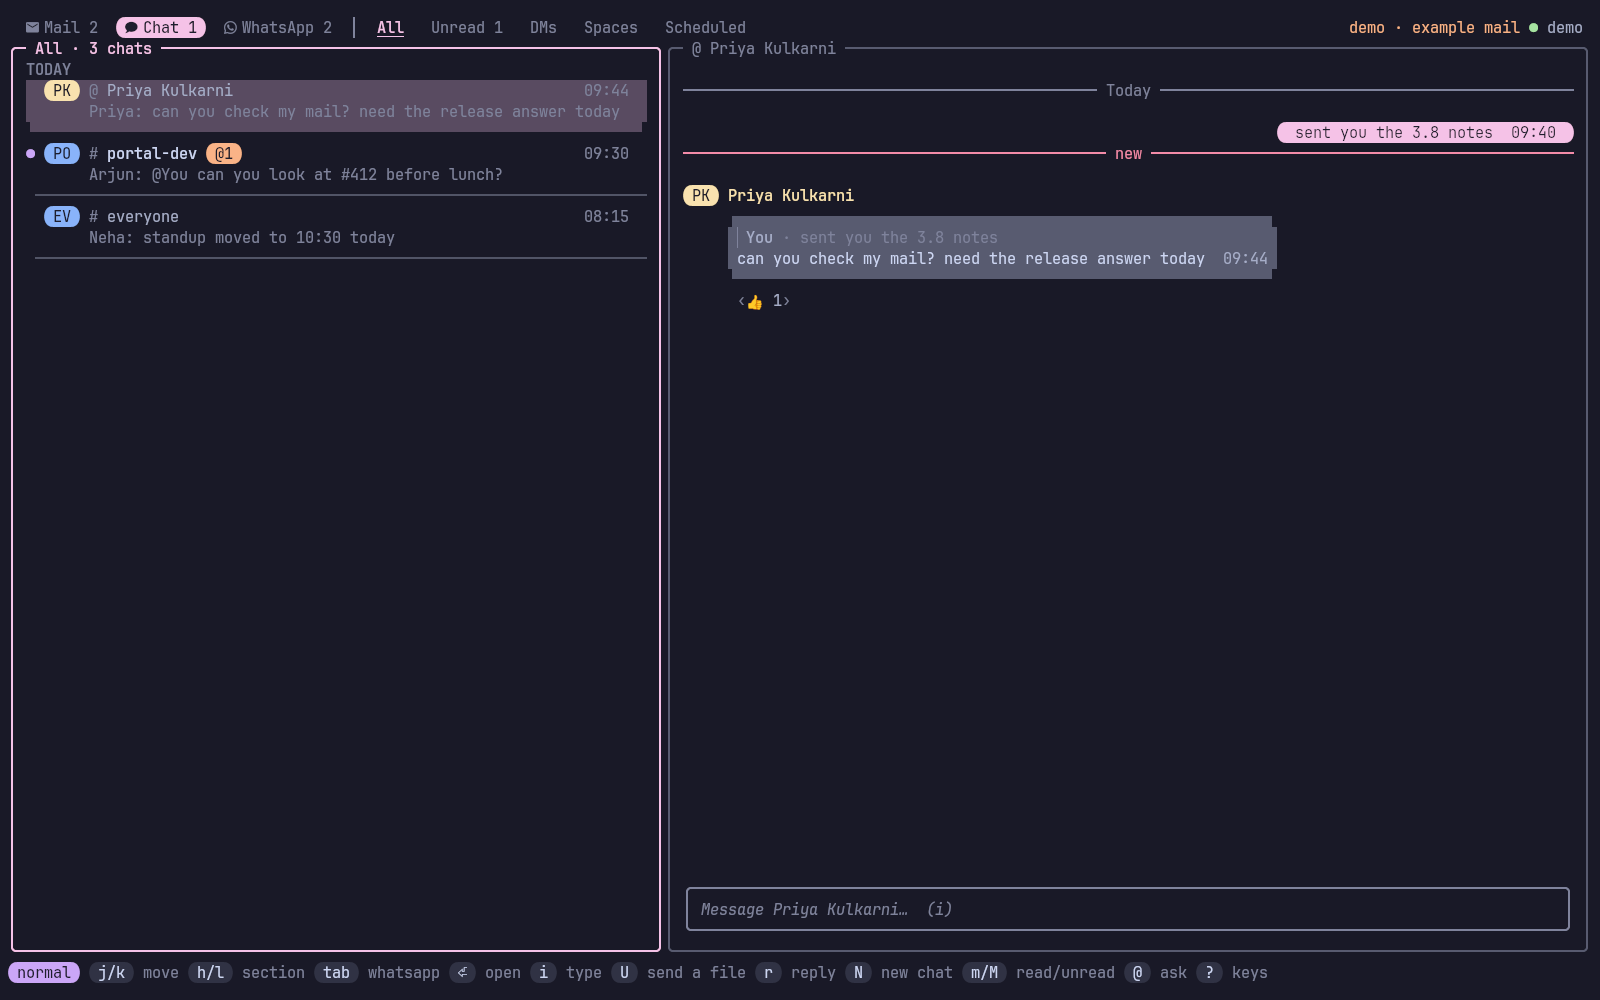
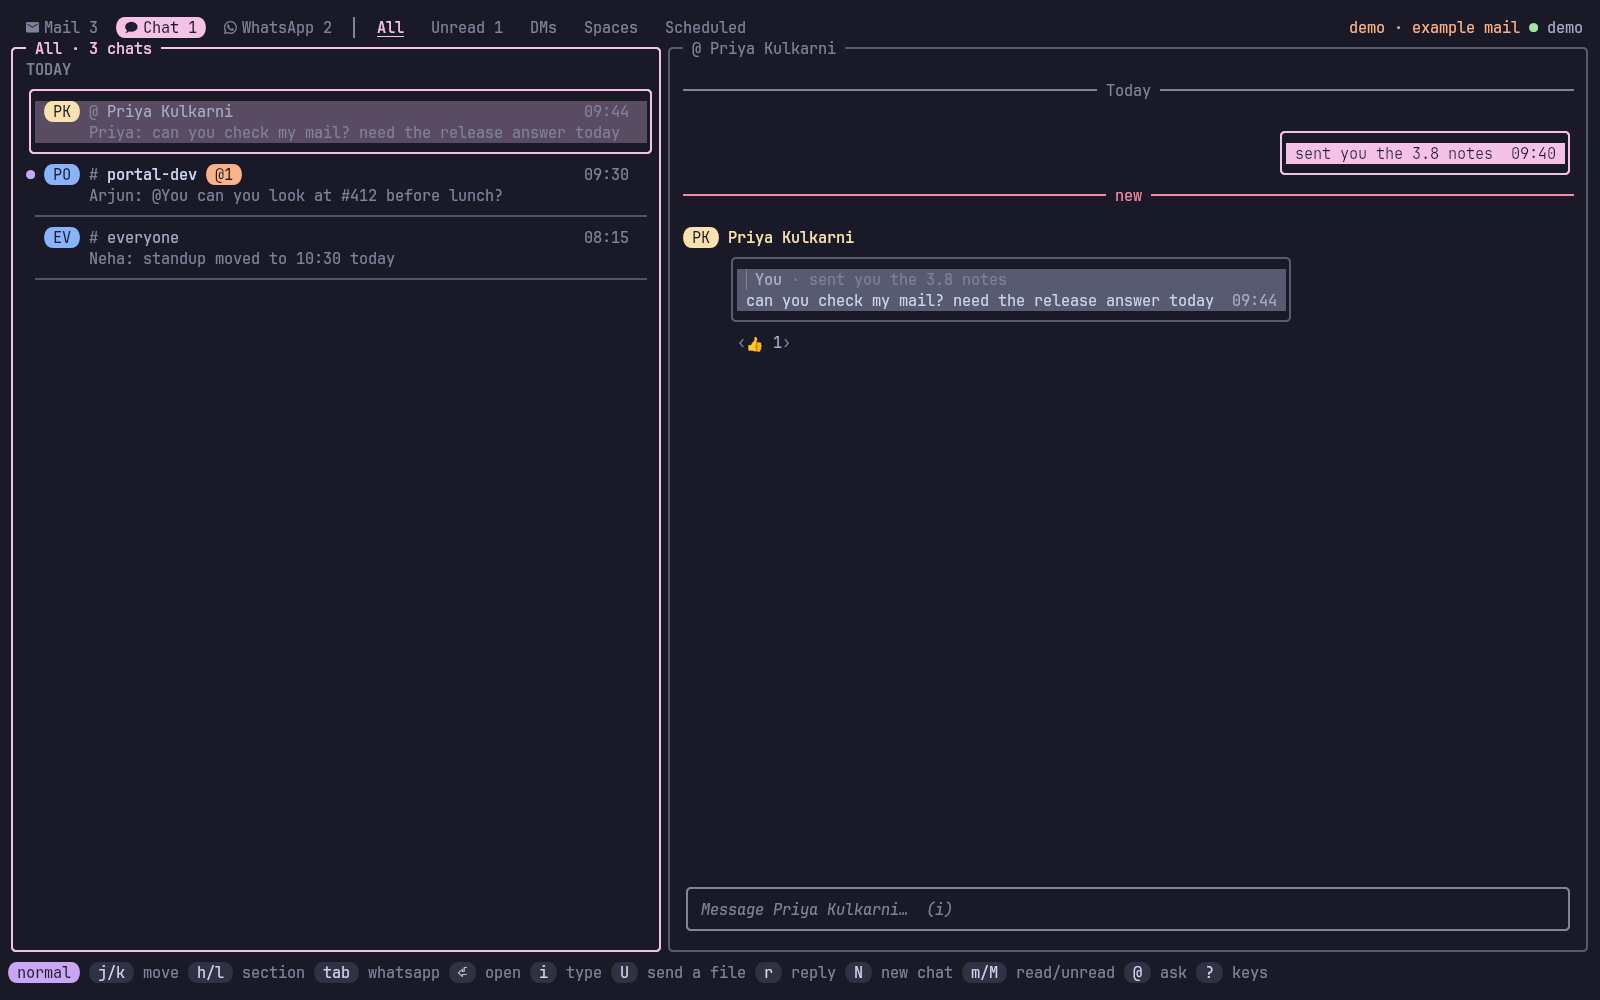
v0.4.2: rounded borders on bubbles and the picked row

Changed region(s): [[0.0, 0.062, 0.8125, 0.341], [0.7812, 0.124, 1.0, 0.186]]

diff --git a/docs/changelog.html b/docs/changelog.html
@@ -19,8 +19,8 @@
 <a class="brand" href="index.html"><img src="assets/logo.svg" alt=""><span>sandesh <small>संदेश</small></span></a>
 <nav><a href="index.html" class="">Overview</a><a href="changelog.html" class="on">Changelog</a><a href="adr/index.html" class=" hide">Decisions</a><a class="gh" href="https://github.com/Theyashsawarkar/sandesh">GitHub ↗</a></nav></div></header>
 
-<div class="wrap"><aside class="toc"><b>On this page</b><a class="l2" href="#v041">v0.4.1</a><a class="l2" href="#v040">v0.4.0</a><a class="l2" href="#v030">v0.3.0</a><a class="l2" href="#v020">v0.2.0</a><a class="l2" href="#v010">v0.1.0</a></aside><article>
-<h2>Changelog</h2><p>Every change to sandesh, newest first. Releases are git tags (<a href="https://github.com/Theyashsawarkar/sandesh/tags">all tags</a>, <a href="https://github.com/Theyashsawarkar/sandesh/releases">GitHub releases</a>); the source of this page is <a href="https://github.com/Theyashsawarkar/sandesh/blob/main/CHANGELOG.md">CHANGELOG.md</a>.</p><section class="release"><h2 id="v041">v0.4.1<span class="date">2026-11-02</span><a class="tag" href="https://github.com/Theyashsawarkar/sandesh/releases/tag/v0.4.1">release ↗</a></h2><ul><li><strong>Fixed: sending files on WhatsApp</strong>: <code>U</code> said "files isn't on WhatsApp yet" (a leftover guard); it sends now, and <code>v</code> / <code>V</code> open and save WhatsApp files. The key bar shows <code>U send a file</code>.</li><li><strong>Rounded</strong>: one-line messages are pills, longer ones rounded blocks; the picked list row is rounded too, and keeps its colours (name capsules showed as dark blobs on it).</li><li><strong>Switching places</strong>: <code>Shift+Tab</code> goes back (Mail ← Chat ← WhatsApp), <code>Alt+m</code> / <code>Alt+c</code> / <code>Alt+w</code> go straight to one.</li><li><strong>Picking several, marking all read</strong>: <code>x</code> picks chats too, <code>Ctrl+x</code> picks the whole list (again clears), <code>m</code> / <code>M</code> act on what's picked, and <code>Alt+r</code> marks everything in the list read.</li></ul></section><section class="release"><h2 id="v040">v0.4.0<span class="date">2026-11-02</span><a class="tag" href="https://github.com/Theyashsawarkar/sandesh/releases/tag/v0.4.0">release ↗</a></h2><ul><li><strong>Filled bubbles</strong>: chat and WhatsApp messages are filled blocks, yours in the accent colour, with the time and ticks inside; one name per run.</li><li><strong>One panel for the lists</strong>: mail, chat and WhatsApp rows divided by hairlines, the picked one filled in the tab's colour (<code>list_style</code>, replacing <code>chat_list</code>; <code>chat_list = &quot;cards&quot;</code> still works).</li><li><strong>Mail threads fold</strong>: read messages to one line, a long run to one line in all.</li><li><strong>One frame for the message box</strong>: the reply and the files go inside it.</li><li><strong>A clearer approval</strong>: "Claude Code wants to send a mail to …", the reason as a badge, the agent's own <code>why</code> (new on <code>mail_send</code>, <code>chat_send</code> and <code>whatsapp_send</code>) and <code>y send in 10s</code>.</li></ul></section><section class="release"><h2 id="v030">v0.3.0<span class="date">2026-11-02</span><a class="tag" href="https://github.com/Theyashsawarkar/sandesh/releases/tag/v0.3.0">release ↗</a></h2><ul><li><strong>Screenshots</strong> in the README and on the website (from <code>sandesh demo</code>).</li><li><strong>Ticks</strong>: ✓ sent, ✓✓ delivered and blue ✓✓ read beside your WhatsApp messages, from the phone's receipts and its history.</li><li><strong>Paste a screenshot</strong>: <code>Ctrl+v</code> while typing attaches a copied image; files about to go show as small previews above the box.</li><li><strong>Pictures full size</strong>: <code>Space</code> (or <code>Enter</code>) on a picked photo or GIF fills the screen; <code>h</code>/<code>l</code> go through the chat's pictures.</li><li><strong>Compact chat list</strong>: two rows per chat instead of a box, so about twice as many fit; <code>chat_list = &quot;cards&quot;</code> brings the boxes back.</li><li><strong>The undo window where you look</strong>: a message counting down to send, or waiting for approval, shows under the conversation; <code>z</code> cancels the open chat's own first.</li><li><strong>Clearer</strong>: the unread count sits on Unread, not All; the list title says "chats"; a one-to-one chat shows the number, not "You, Amma · 2 people"; the hint under the message box, which repeated the key bar, is gone.</li></ul>
+<div class="wrap"><aside class="toc"><b>On this page</b><a class="l2" href="#v042">v0.4.2</a><a class="l2" href="#v041">v0.4.1</a><a class="l2" href="#v040">v0.4.0</a><a class="l2" href="#v030">v0.3.0</a><a class="l2" href="#v020">v0.2.0</a><a class="l2" href="#v010">v0.1.0</a></aside><article>
+<h2>Changelog</h2><p>Every change to sandesh, newest first. Releases are git tags (<a href="https://github.com/Theyashsawarkar/sandesh/tags">all tags</a>, <a href="https://github.com/Theyashsawarkar/sandesh/releases">GitHub releases</a>); the source of this page is <a href="https://github.com/Theyashsawarkar/sandesh/blob/main/CHANGELOG.md">CHANGELOG.md</a>.</p><section class="release"><h2 id="v042">v0.4.2<span class="date">2026-11-02</span><a class="tag" href="https://github.com/Theyashsawarkar/sandesh/releases/tag/v0.4.2">release ↗</a></h2><ul><li><strong>Really rounded</strong>: bubbles and the picked list row get rounded borders (╭ ╮ ╰ ╯) in their colour; the half-block corners of v0.4.1 were too small to read as round.</li></ul></section><section class="release"><h2 id="v041">v0.4.1<span class="date">2026-11-02</span><a class="tag" href="https://github.com/Theyashsawarkar/sandesh/releases/tag/v0.4.1">release ↗</a></h2><ul><li><strong>Fixed: sending files on WhatsApp</strong>: <code>U</code> said "files isn't on WhatsApp yet" (a leftover guard); it sends now, and <code>v</code> / <code>V</code> open and save WhatsApp files. The key bar shows <code>U send a file</code>.</li><li><strong>Rounded</strong>: one-line messages are pills, longer ones rounded blocks; the picked list row is rounded too, and keeps its colours (name capsules showed as dark blobs on it).</li><li><strong>Switching places</strong>: <code>Shift+Tab</code> goes back (Mail ← Chat ← WhatsApp), <code>Alt+m</code> / <code>Alt+c</code> / <code>Alt+w</code> go straight to one.</li><li><strong>Picking several, marking all read</strong>: <code>x</code> picks chats too, <code>Ctrl+x</code> picks the whole list (again clears), <code>m</code> / <code>M</code> act on what's picked, and <code>Alt+r</code> marks everything in the list read.</li></ul></section><section class="release"><h2 id="v040">v0.4.0<span class="date">2026-11-02</span><a class="tag" href="https://github.com/Theyashsawarkar/sandesh/releases/tag/v0.4.0">release ↗</a></h2><ul><li><strong>Filled bubbles</strong>: chat and WhatsApp messages are filled blocks, yours in the accent colour, with the time and ticks inside; one name per run.</li><li><strong>One panel for the lists</strong>: mail, chat and WhatsApp rows divided by hairlines, the picked one filled in the tab's colour (<code>list_style</code>, replacing <code>chat_list</code>; <code>chat_list = &quot;cards&quot;</code> still works).</li><li><strong>Mail threads fold</strong>: read messages to one line, a long run to one line in all.</li><li><strong>One frame for the message box</strong>: the reply and the files go inside it.</li><li><strong>A clearer approval</strong>: "Claude Code wants to send a mail to …", the reason as a badge, the agent's own <code>why</code> (new on <code>mail_send</code>, <code>chat_send</code> and <code>whatsapp_send</code>) and <code>y send in 10s</code>.</li></ul></section><section class="release"><h2 id="v030">v0.3.0<span class="date">2026-11-02</span><a class="tag" href="https://github.com/Theyashsawarkar/sandesh/releases/tag/v0.3.0">release ↗</a></h2><ul><li><strong>Screenshots</strong> in the README and on the website (from <code>sandesh demo</code>).</li><li><strong>Ticks</strong>: ✓ sent, ✓✓ delivered and blue ✓✓ read beside your WhatsApp messages, from the phone's receipts and its history.</li><li><strong>Paste a screenshot</strong>: <code>Ctrl+v</code> while typing attaches a copied image; files about to go show as small previews above the box.</li><li><strong>Pictures full size</strong>: <code>Space</code> (or <code>Enter</code>) on a picked photo or GIF fills the screen; <code>h</code>/<code>l</code> go through the chat's pictures.</li><li><strong>Compact chat list</strong>: two rows per chat instead of a box, so about twice as many fit; <code>chat_list = &quot;cards&quot;</code> brings the boxes back.</li><li><strong>The undo window where you look</strong>: a message counting down to send, or waiting for approval, shows under the conversation; <code>z</code> cancels the open chat's own first.</li><li><strong>Clearer</strong>: the unread count sits on Unread, not All; the list title says "chats"; a one-to-one chat shows the number, not "You, Amma · 2 people"; the hint under the message box, which repeated the key bar, is gone.</li></ul>
 <ul><li><strong>Photos, GIFs and files on WhatsApp</strong>: they show in the conversation (on kitty as real pictures, in tmux popups too, and GIFs play; elsewhere as coloured blocks; the <code>images</code> option chooses), and <code>Ctrl+o</code> while typing or <code>U</code> sends them, with the text as the first file's caption.</li><li><strong>Link WhatsApp from its tab</strong>: <code>L</code> shows the QR code, <code>P</code> a phone code, and a bar follows the sync, with no separate terminal.</li><li><strong><code>send_policy = &quot;trust&quot;</code> and <code>ask_first</code></strong>: agents send without asking unless you told them to ask, after an undo window with a notification that can cancel it (ADR 6). The approval screen is redesigned.</li><li><strong>The chat box grows</strong>: long messages wrap and the box gets taller, and Enter sends and keeps you typing. The active tab is a filled pill in its own colour.</li><li><strong>Fixed</strong>: WhatsApp names and mentions showing as numbers; <code>@</code> and the AI keys not finding <code>claude</code> or <code>sandesh</code> from a tmux popup.</li></ul>
 <ul><li><strong>WhatsApp</strong>: <code>sandesh whatsapp link</code> links your WhatsApp as a device (QR code, or <code>--phone</code> for a code to type on the phone), and its chats become a third tab (<code>Tab</code>: Mail → Chat → WhatsApp) with unread counts in <code>sandesh status</code> and the tmux segment, notifications, read receipts and quoted replies. <code>sandesh whatsapp list|read|send|unlink</code> on the command line, <code>whatsapp_chats</code>, <code>whatsapp_read</code> and <code>whatsapp_send</code> for agents. Every send goes through the outbox; an agent's always waits for you, and WhatsApp sends are capped at <code>whatsapp_per_hour</code> (30). Without linking, <code>whatsapp send</code> opens WhatsApp's click-to-chat page with the text typed in instead. Linking isn't allowed by WhatsApp's terms (see the README's WhatsApp section and ADR 5).</li></ul>
 <ul><li><strong>HTML mail, for tables and the like</strong>: <code>mail_send</code> and <code>mail_draft</code> take an optional <code>html</code> (and <code>sandesh mail send</code> an <code>--html FILE</code>). It goes out beside the plain text as <code>multipart/alternative</code>, so mail apps show the HTML and the plain text is still there for those that don't; a reply quotes the thread in the HTML too. Plain text alone can't make a table Gmail shows as one.</li></ul></section><section class="release"><h2 id="v020">v0.2.0<span class="date">2026-10-28</span><a class="tag" href="https://github.com/Theyashsawarkar/sandesh/releases/tag/v0.2.0">release ↗</a></h2><ul><li><strong><code>--tab chat</code></strong>: <code>sandesh --tab chat</code> (and <code>sandesh --popup --tab chat</code>) opens the screen on the chat tab, so a status bar's chat count can open chat and its mail count mail.</li></ul>

diff --git a/docs/index.html b/docs/index.html
@@ -24,8 +24,8 @@
 <div class="sa">संदेश <span>· “message”</span></div>
 <p class="lead">Gmail and Google Chat without leaving the terminal, with an agent that can read, draft and send for you.</p>
 <div class="cta"><a class="btn primary" href="#install">Install</a><a class="btn" href="https://github.com/Theyashsawarkar/sandesh">GitHub ↗</a>
-<a class="btn" href="changelog.html">What's new in v0.4.1</a></div>
-<div class="meta"><span><b>v0.4.1</b> latest</span><span><b>5</b> releases</span><span><b>6</b> decisions recorded</span><span><b>MIT</b> license</span></div>
+<a class="btn" href="changelog.html">What's new in v0.4.2</a></div>
+<div class="meta"><span><b>v0.4.2</b> latest</span><span><b>6</b> releases</span><span><b>6</b> decisions recorded</span><span><b>MIT</b> license</span></div>
 </div><img class="logo" src="assets/logo.svg" alt="sandesh logo"></div></section>
 <div class="wrap"><aside class="toc"><b>On this page</b><a class="l2" href="#features">Features</a><a class="l2" href="#install">Install</a><a class="l2" href="#getting-started">Getting started</a><a class="l2" href="#the-screen">The screen</a><a class="l2" href="#keys">Keys</a><a class="l2" href="#sending-later">Sending later</a><a class="l2" href="#sent-mail">Sent mail</a><a class="l2" href="#older-mail">Older mail</a><a class="l2" href="#files">Files</a><a class="l2" href="#whatsapp">WhatsApp</a><a class="l2" href="#claude-and-other-agents">Claude and other agents</a><a class="l2" href="#sending-safely">Sending safely</a><a class="l2" href="#command-line">Command line</a><a class="l2" href="#using-it-inside-tmux">Using it inside tmux</a><a class="l2" href="#configuration">Configuration</a><a class="l2" href="#files-and-environment">Files and environment</a><a class="l2" href="#how-it-works">How it works</a><a class="l2" href="#troubleshooting">Troubleshooting</a><a class="l2" href="#contributing">Contributing</a><a class="l2" href="#roadmap">Roadmap</a><a class="l2" href="#license">License</a></aside><article>
 <p align="center">

diff --git a/internal/tui/cards.go b/internal/tui/cards.go
@@ -73,18 +73,21 @@ func (m Model) listItem(lines []string, w int, border string, sel, dot bool) []s
 		}
 		row := gutter + fit(l, w+2)
 		if sel {
+			row = " " + fit(l, w+2) // the border takes the gutter's place
 			// keep each part's own colours (name capsules, badges) on a
 			// tint of the tab's colour
 			on := lipgloss.NewStyle().Background(lipgloss.Color(m.selFill()))
 			seq := strings.TrimSuffix(on.Render(" "), " \x1b[0m")
-			row = seq + strings.ReplaceAll(row, "\x1b[0m", "\x1b[0m"+seq) + on.Render(strings.Repeat(" ", max(0, w+3-ansi.StringWidth(row)))) + "\x1b[0m" // no bleed into the pane
+			row = seq + strings.ReplaceAll(row, "\x1b[0m", "\x1b[0m"+seq) + on.Render(strings.Repeat(" ", max(0, w+2-ansi.StringWidth(row)))) + "\x1b[0m" // no bleed into the pane
+			edge := lipgloss.NewStyle().Foreground(lipgloss.Color(m.selEdge()))
+			row = edge.Render("│") + row + edge.Render("│")
 		}
 		out = append(out, row)
 	}
-	if sel && s.nerd {
-		c := lipgloss.NewStyle().Foreground(lipgloss.Color(m.selFill()))
-		rw := ansi.StringWidth(out[0])                                          // as wide as the filled rows
-		return append(out, c.Render("▝"+strings.Repeat("▀", max(0, rw-2))+"▘")) // its rounded bottom
+	if sel {
+		c := lipgloss.NewStyle().Foreground(lipgloss.Color(m.selEdge()))
+		rw := ansi.StringWidth(out[0])
+		return append(out, c.Render("╰"+strings.Repeat("─", max(0, rw-2))+"╯")) // the card's rounded bottom
 	}
 	return append(out, m.hairline(w))
 }
@@ -96,12 +99,27 @@ func (m Model) appendItem(out, lines []string, w int, border string, sel, dot bo
 	for _, l := range m.listItem(lines, w, border, sel, dot) {
 		out = append(out, " "+l)
 	}
-	if sel && m.panelList() && m.styles.nerd && start > 0 && out[start-1] == " "+m.hairline(w) {
-		c := lipgloss.NewStyle().Foreground(lipgloss.Color(m.selFill()))
+	if sel && m.panelList() && start > 0 && (out[start-1] == " "+m.hairline(w) || strings.TrimSpace(ansi.Strip(out[start-1])) == "") {
+		c := lipgloss.NewStyle().Foreground(lipgloss.Color(m.selEdge()))
 		rw := ansi.StringWidth(out[start]) - 1
-		out[start-1] = " " + c.Render("▗"+strings.Repeat("▄", max(0, rw-2))+"▖")
+		out[start-1] = " " + c.Render("╭"+strings.Repeat("─", max(0, rw-2))+"╮") // the card's rounded top
+	} else if sel && m.panelList() {
+		// first in the list or under a label: the top goes in a row of its own
+		c := lipgloss.NewStyle().Foreground(lipgloss.Color(m.selEdge()))
+		rw := ansi.StringWidth(out[start]) - 1
+		top := " " + c.Render("╭"+strings.Repeat("─", max(0, rw-2))+"╮")
+		out = append(out[:start], append([]string{top}, out[start:]...)...)
 	}
 	return out
+}
+
+// selEdge is the picked card's border: the tab's colour, muted when the
+// focus is on the preview.
+func (m Model) selEdge() string {
+	if m.focus != 0 {
+		return m.styles.c.Muted
+	}
+	return m.partColor()
 }
 
 // selFill is the picked list row's background: a dark tint of the tab's
@@ -354,19 +372,18 @@ func (m Model) fillBubble(lines []string, raw map[int]bool, maxW int, mine, sel 
 	return out
 }
 
-// rounded gives a filled block of width w round ends: a pill (Nerd Font
-// caps) when it's one line, else half-cell rounded corners above and below.
+// rounded frames a filled block of width w with a rounded border in its
+// colour (╭ ╮ ╰ ╯: the only corners a terminal draws round).
 func (m Model) rounded(block []string, bg string, w int) []string {
-	if !m.styles.nerd || len(block) == 0 {
+	if len(block) == 0 {
 		return block
 	}
 	c := lipgloss.NewStyle().Foreground(lipgloss.Color(bg))
-	if len(block) == 1 {
-		return []string{c.Render("\ue0b6") + block[0] + c.Render("\ue0b4")}
+	out := []string{c.Render("╭" + strings.Repeat("─", w) + "╮")}
+	for _, l := range block {
+		out = append(out, c.Render("│")+l+c.Render("│"))
 	}
-	top := c.Render("▗" + strings.Repeat("▄", max(0, w-2)) + "▖")
-	bottom := c.Render("▝" + strings.Repeat("▀", max(0, w-2)) + "▘")
-	return append(append([]string{top}, block...), bottom)
+	return append(out, c.Render("╰"+strings.Repeat("─", w)+"╯"))
 }
 
 // blend mixes two "#rrggbb" colours, t of the first.

diff --git a/internal/app/app.go b/internal/app/app.go
@@ -20,7 +20,7 @@ import (
 	"github.com/Theyashsawarkar/sandesh/internal/store"
 )
 
-const Version = "0.4.1"
+const Version = "0.4.2"
 
 type App struct {
 	Paths  config.Paths

diff --git a/CHANGELOG.md b/CHANGELOG.md
@@ -2,6 +2,12 @@
 
 Newest first.
 
+## v0.4.2 -- 2026-11-02
+
+- **Really rounded**: bubbles and the picked list row get rounded borders
+  (╭ ╮ ╰ ╯) in their colour; the half-block corners of v0.4.1 were too
+  small to read as round.
+
 ## v0.4.1 -- 2026-11-02
 
 - **Fixed: sending files on WhatsApp**: `U` said "files isn't on WhatsApp
